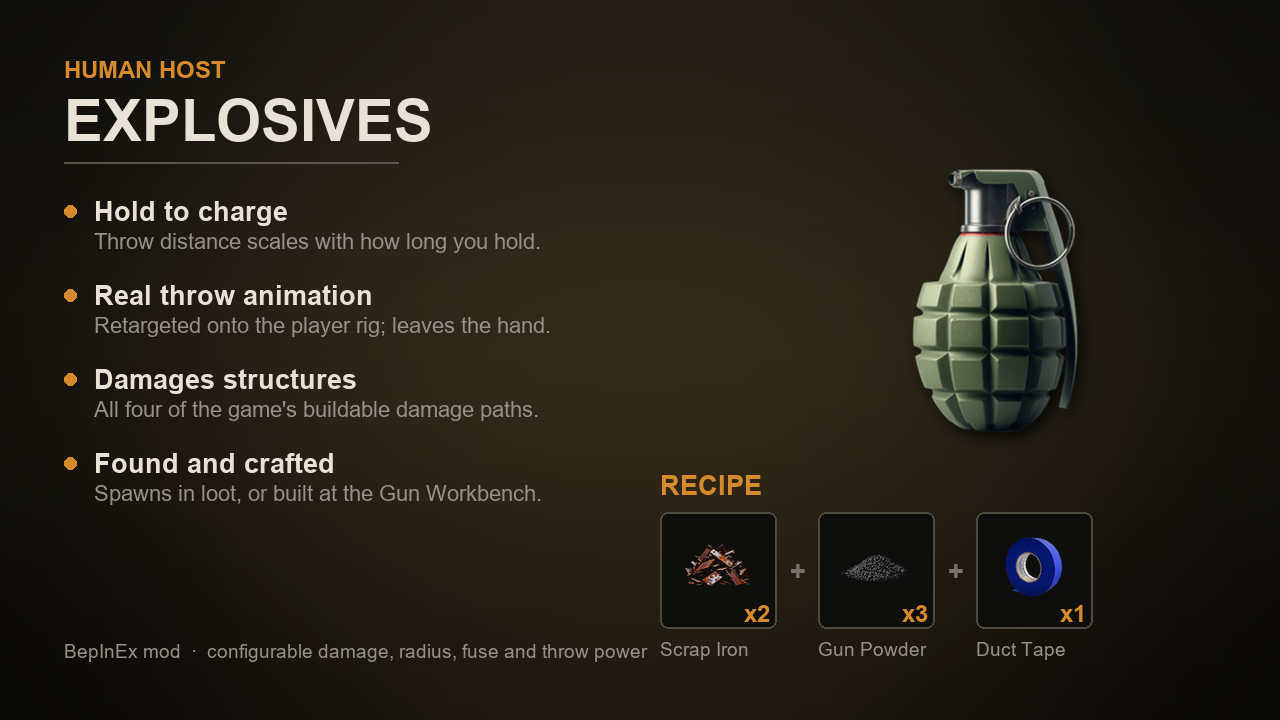
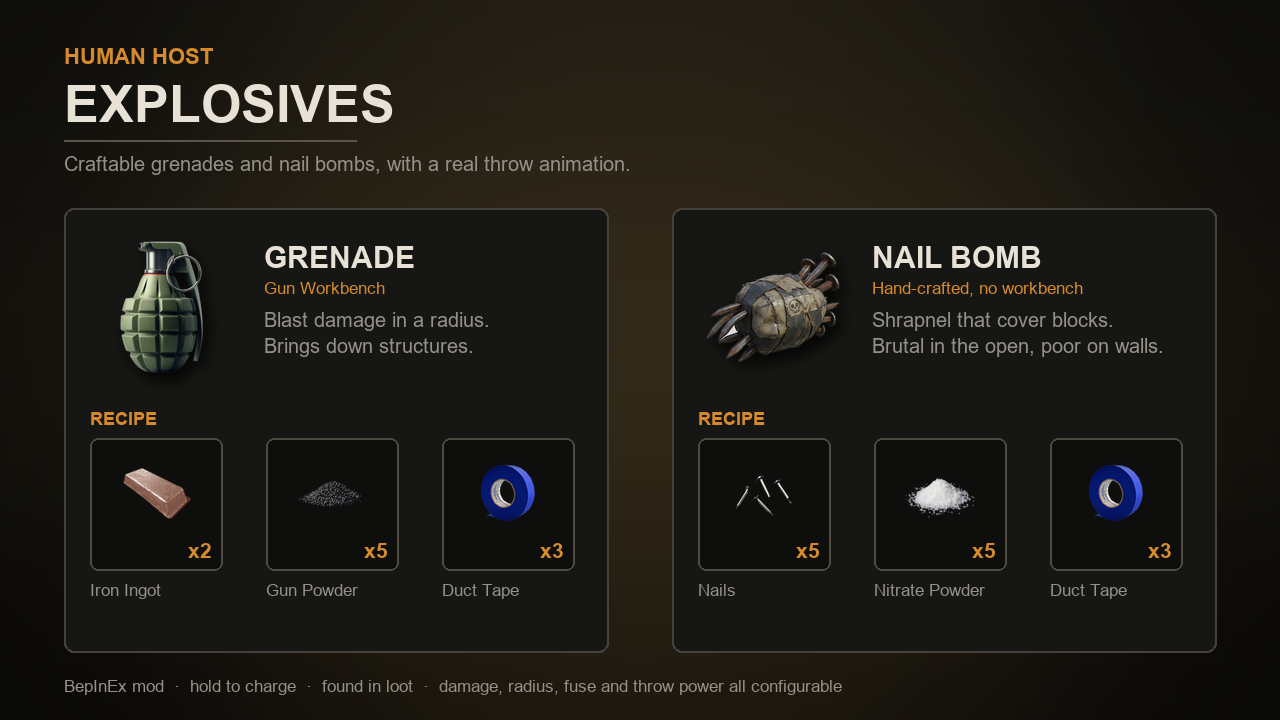
Update recipes to 5 Gun Powder / 5 Nails, refresh Workshop assets
Grenade is now 2 Iron Ingot, 5 Gun Powder, 3 Duct Tape; nail bomb 5 Nails,
5 Nitrate Powder, 3 Duct Tape. Applied to both the code defaults and the live
config - existing config keys always beat code defaults, so shipping only the
default would have left this install on the old numbers.

Workshop example image redrawn as two columns, one per craftable, each showing
its own recipe. It was still advertising the grenade's original Scrap Iron
recipe and did not mention the nail bomb at all. The Forged Iron and Nitrate
Powder icons were extracted from the game's Addressables bundles for it, so the
recipe art stays the real thing rather than a drawing of it.

Upload folder rebuilt with the nail bomb assets, which it was missing.

diff --git a/Plugin.cs b/Plugin.cs
@@ -355,7 +355,7 @@ namespace HumanHostExplosives
             // also frees up Scrap Iron to be the nail bomb's cruder, unrefined pipe material below,
             // instead of both explosives competing for the same resource.
             AddRecipeSlot(grenade, "Grenade", 1, MatForgedIron, 2, "Iron Ingot - casing");
-            AddRecipeSlot(grenade, "Grenade", 2, MatGunPowder, 10, "Gun Powder - filler");
+            AddRecipeSlot(grenade, "Grenade", 2, MatGunPowder, 5, "Gun Powder - filler");
             AddRecipeSlot(grenade, "Grenade", 3, MatDuctTape, 3, "Duct Tape - binding");
 
             var nailbomb = new ExplosiveDef
@@ -399,7 +399,7 @@ namespace HumanHostExplosives
             // Nitrate_Powder instead of Gun_Powder as filler, since Gun_Powder isn't loot-findable
             // and requires its own separate Chemistry craft first - Nitrate_Powder is the cruder,
             // less-refined precursor, needed in a larger amount to compensate for being weaker.
-            AddRecipeSlot(nailbomb, "Nailbomb", 1, MatNails, 8, "Nails - the shrapnel");
+            AddRecipeSlot(nailbomb, "Nailbomb", 1, MatNails, 5, "Nails - the shrapnel");
             AddRecipeSlot(nailbomb, "Nailbomb", 2, MatNitratePowder, 5, "Nitrate Powder - crude filler");
             AddRecipeSlot(nailbomb, "Nailbomb", 3, MatDuctTape, 3, "Duct Tape - binding");
 

diff --git a/Workshop/WORKSHOP.md b/Workshop/WORKSHOP.md
@@ -53,14 +53,7 @@ BepInEx 5.4.23.2 is what the game's own installer fetches, so target that.
 | `workshop_thumbnail.png` | 512×512 | Workshop item thumbnail |
 | `workshop_example.png` | 1280×720 | Description / preview image |
 
-Both are generated by `tools/make_art.py` in the audit repo, from the mod's own grenade icon plus
-the **game's real material icons** pulled out of the Addressables bundles — so the recipe shown is
-the recipe the mod actually registers, and it stays honest if the recipe changes.
-
-**Stale as of 2026-09-06** — both images still show the grenade's old recipe (2× Scrap Iron,
-3× Gun Powder, 1× Duct Tape), not the current one (2× Iron Ingot, 10× Gun Powder, 3× Duct Tape),
-and neither mentions the nail bomb at all. Re-run `tools/make_art.py` against the current recipe
-before publishing, or the storefront art will contradict what the mod actually does in-game.
+Both are regenerated by `tools/make_art.py` in the audit repo, from the mod's own item icons plus the game's real material icons pulled out of the Addressables bundles - so the recipes shown are the recipes the mod actually registers. Regenerate them whenever a recipe changes; they were last rebuilt 2026-09-06 for 2x Iron Ingot / 5x Gun Powder / 3x Duct Tape and 5x Nails / 5x Nitrate Powder / 3x Duct Tape.
 
 > Worth adding before publishing: **a real in-game screenshot**. The generated example image is a
 > clean feature card, but Workshop browsers respond to actual gameplay — a grenade mid-throw or a
@@ -99,12 +92,12 @@ structural damage systems, so walls break the way the game intends.
 [b]Grenade[/b] (Gun Workbench):
 [list]
 [*]2 × Iron Ingot — the casing
-[*]10 × Gun Powder — the filler
+[*]5 × Gun Powder — the filler
 [*]3 × Duct Tape — holds it together
 [/list]
 [b]Nail bomb[/b] (hand-crafted, no workbench):
 [list]
-[*]8 × Nails — the shrapnel
+[*]5 × Nails — the shrapnel
 [*]5 × Nitrate Powder — a cruder filler than Gun Powder, made at the Biochemical Workbench
 [*]3 × Duct Tape — holds it together
 [/list]
